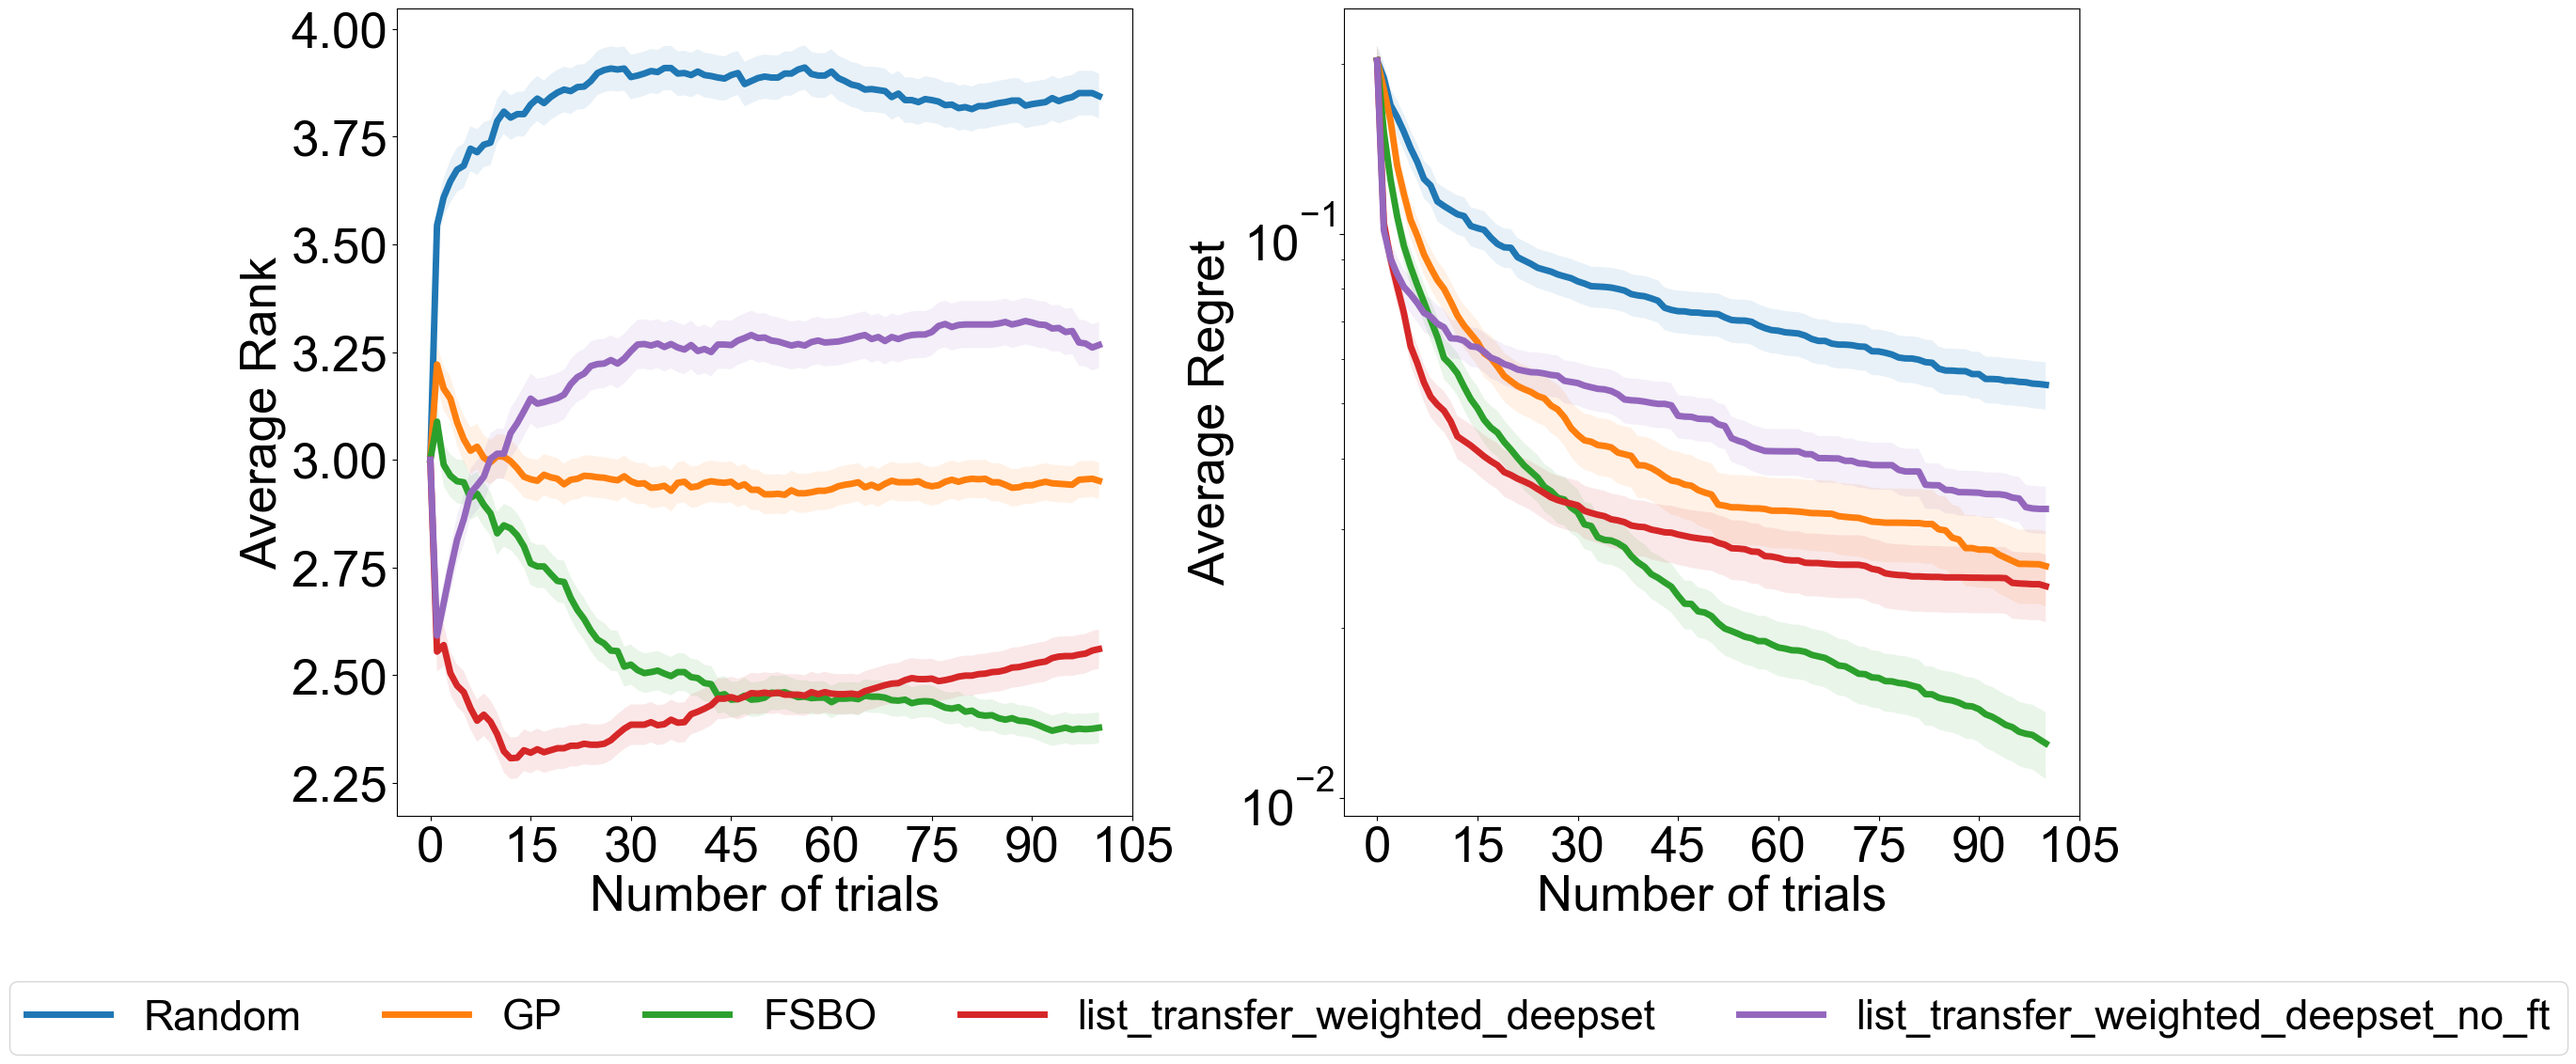
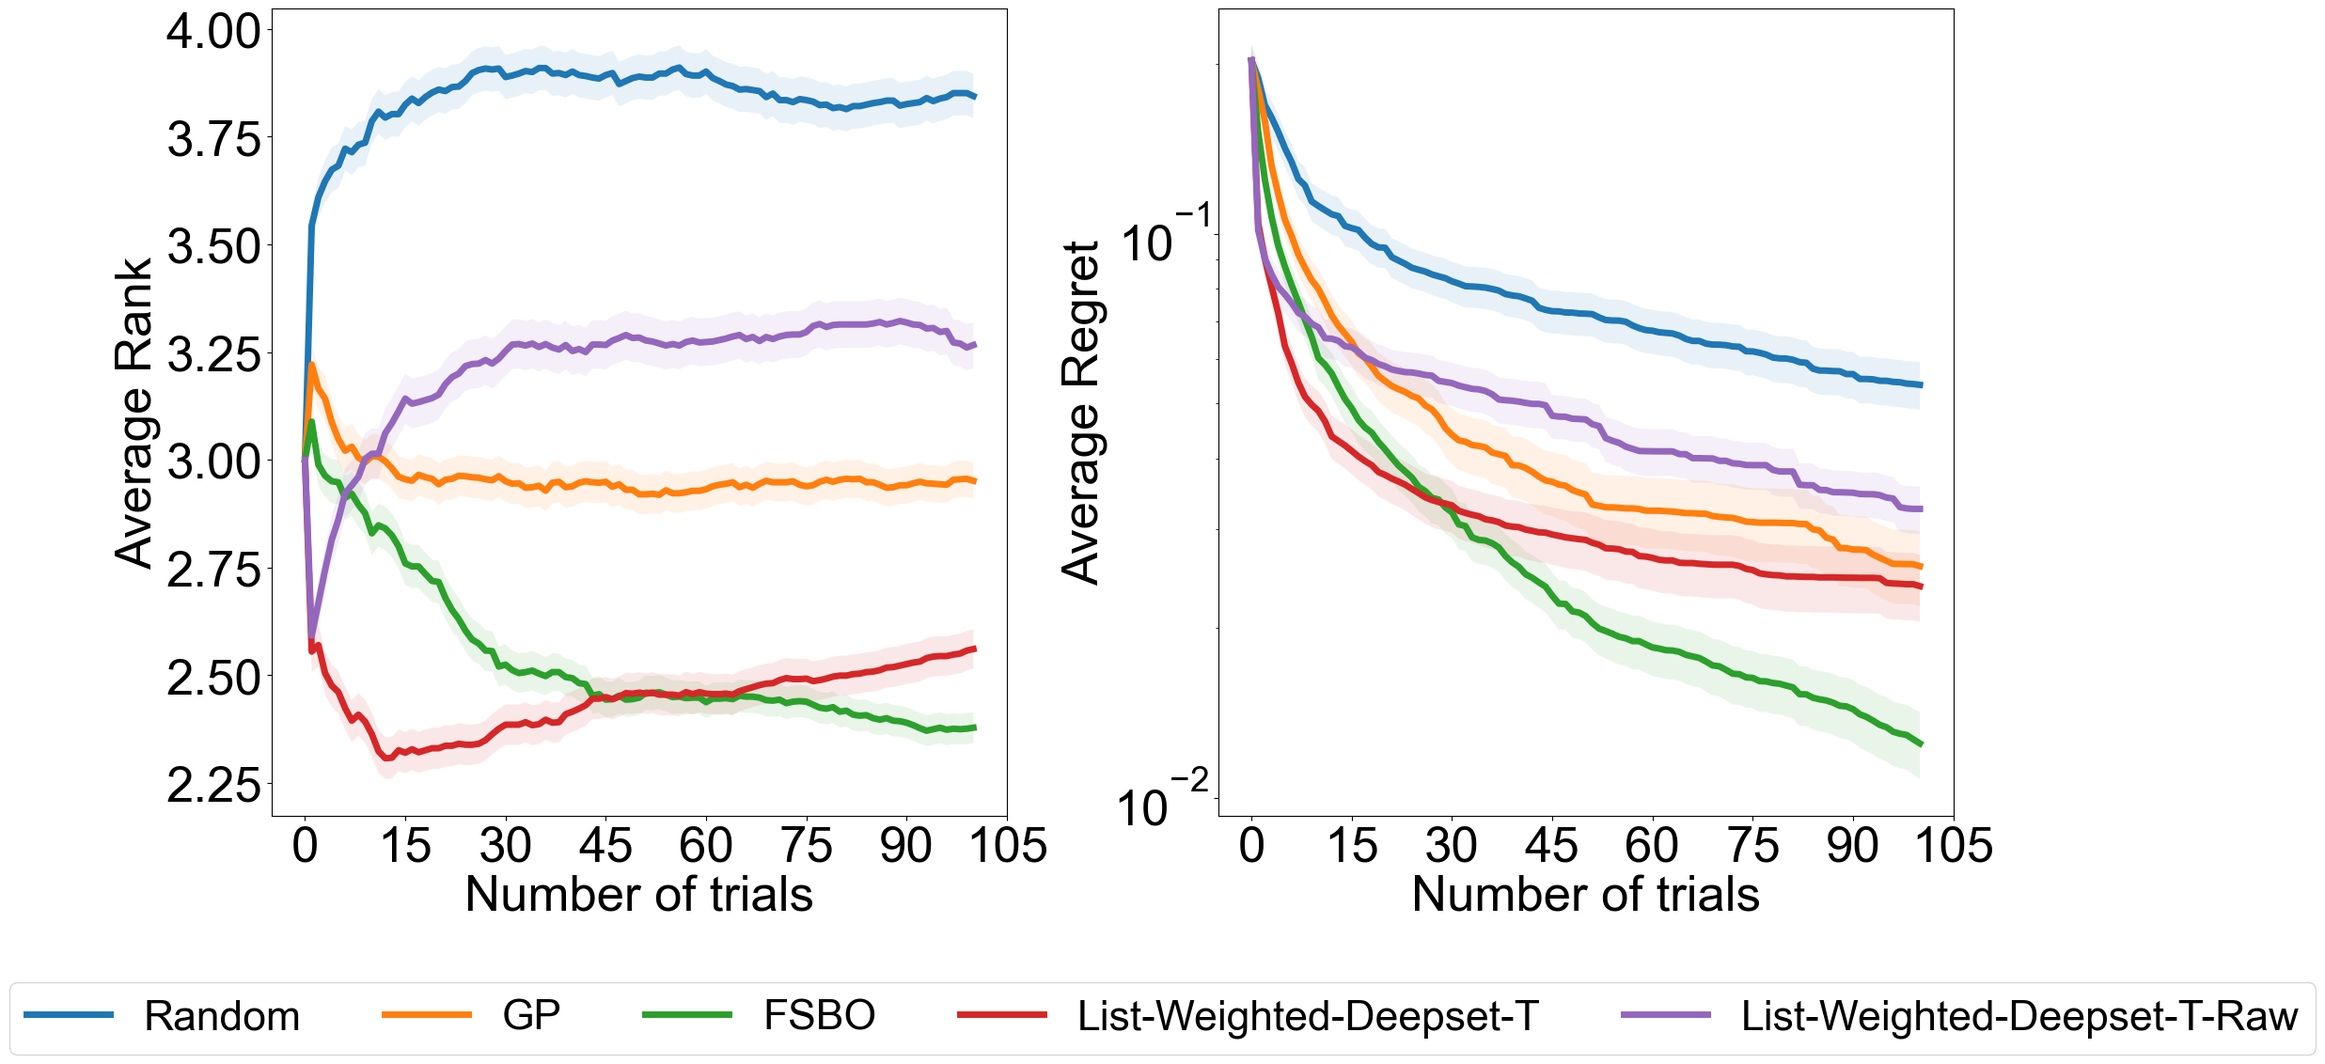
Completing the correction till finetune results

diff --git a/report/report.tex b/report/report.tex
@@ -2651,11 +2651,12 @@ If we do not use any finetuning, selecting the HP configurations for the evaluat
 \begin{figure}[h]
   \centering
     \includegraphics[scale=0.25]{images/FineTuningAblation}
-    \caption{Studying how finetuning affects the optimization performance.}
+    \caption{Effect of finetuning on surrogate performance.}
     \label{fig:FineTuningAblation}
 \end{figure}
 
 From Figure~\ref{fig:FineTuningAblation} one can see that finetuning does help make the model get better results in the long run.
+The "-Raw" suffix signifies that no finetuning is performed using the trained model.
 One fascinating result we see is that without any finetuning, the ranking loss surrogate shows good performance in the first evaluation steps.
 This is because the surrogate model learns the best HP configuration found in the training metadata during meta-training.
 Hence it selects these HP configurations in the first evaluation steps.
@@ -2673,7 +2674,7 @@ Since the average regret gives a biased estimation of the results and the rank g
 \begin{figure}[h]
   \centering
     \includegraphics[scale=0.25]{images/NonTransferSOAT}
-    \caption{Comparing our results against other non-transfer HPO surrogates.}
+    \caption{Comparing our results against SOTA non-transfer HPO surrogates.}
     \label{fig:NonTransferSOAT}
 \end{figure}
 
